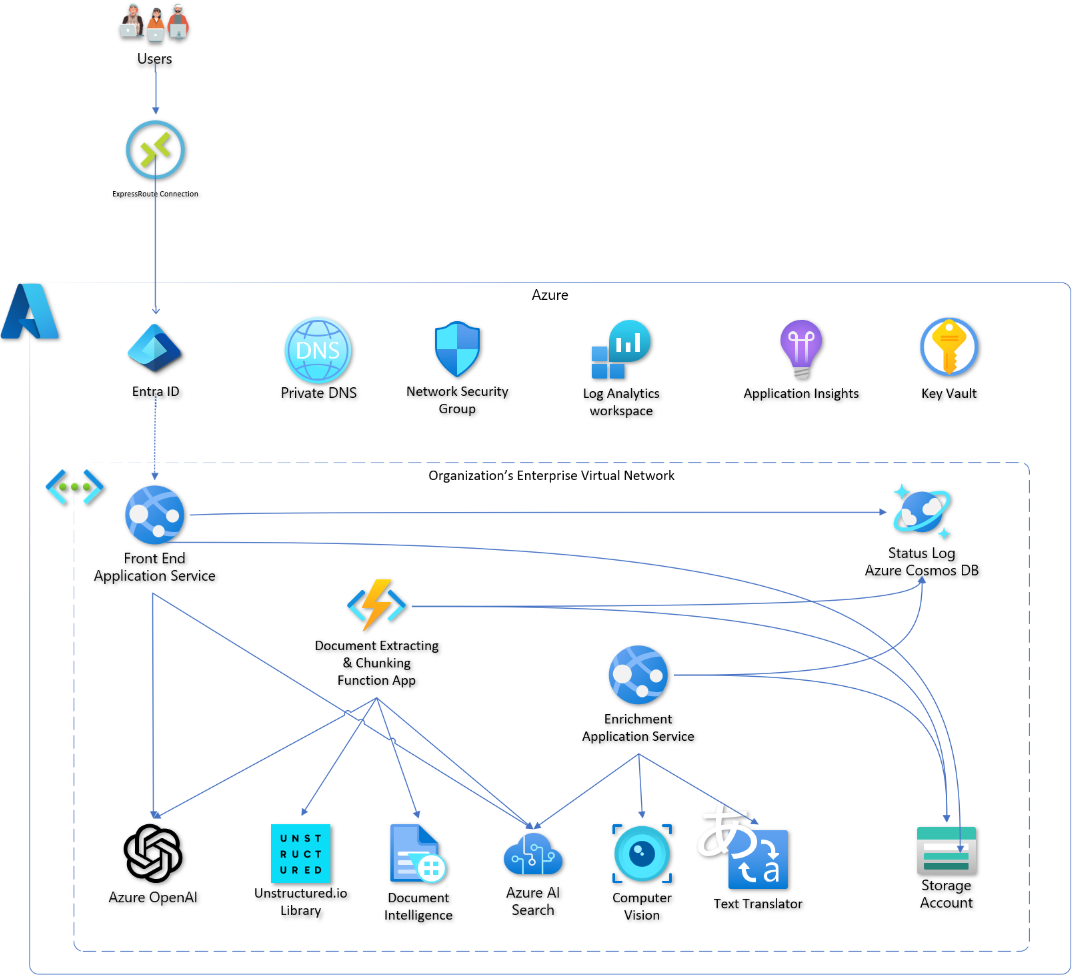
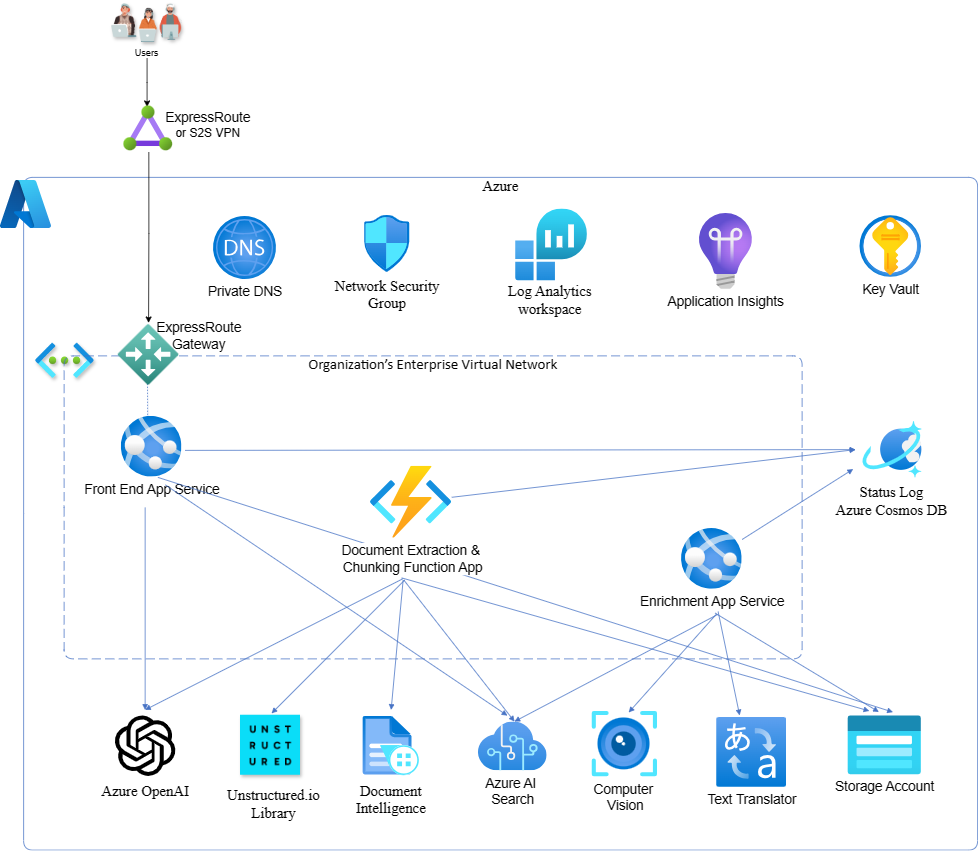
refresh secure deploy docs & images

diff --git a/docs/deployment/enable_secure_deployment.md b/docs/deployment/enable_secure_deployment.md
@@ -7,8 +7,10 @@
 >
 >Notes: 
 >
->* Secure mode is not supported when using existing Azure OpenAI Services.
->* Secure mode is not supported with enable web chat.
+>* Secure mode is not supported with use existing Azure OpenAI Services.
+>* Secure mode is not supported when you enable web chat.
+>* Secure mode is not supported when you enable sharepoint connector.
+>* Secure mode is not supported when you enable multimedia.
 >* Secure mode will create a DDOS Protection Plan for Virtual Network Protection. There is a limit of 1 DDOS protection plan for a subscription in a region.
 >* As part of security hardening Diagnostic Settings will be enabled. There is a limit of 5 diagnostic settings per subscription.
 >* A secure mode will check capacity for DDOS and Diagnostic Settings.
@@ -35,15 +37,31 @@ The secure mode adds several new Azure resources and will likely require additio
 
 ## Architecture
 
+Secure mode builds on the Single Virtual Network Pattern in which all components of your workload are inside a single virtual network (VNet). This pattern is possible if you're operating in a single region. A virtual network can't span multiple regions. The virtual network isolates your resources and traffic from other VNets and provides a boundary for applying security policies. Services deployed within the same virtual network communicate securely. This additional level of isolation helps prevent unauthorized external access to services and helps protect your data. 
+
 High level architecture diagram:
 
 ![Secure mode - High level architecture](../images/secure-deploy-high-level-architecture.png)
 
-A more detailed architecture diagram shows the Information Assistant deployment in a single resource group within a subscription in your tenant and illustrates user interaction with underlying services:
+Deploying a dedicated Azure service into your virtual network provides the following capabilities:
+
+* Resources within the virtual network can communicate with each other privately, through private IP addresses.
+* On-premises resources can access resources in a virtual network using private IP addresses over a Site-to-Site VPN (VPN Gateway) or ExpressRoute.
+* Virtual networks can be peered to enable resources in the virtual networks to communicate with each other, using private IP addresses.
+* The Azure service fully manages service instances in a virtual network. This management includes monitoring the health of the resources and scaling with load.
+* Private endpoints allow ingress of traffic from your virtual network to an Azure resource securely.
+
+The detailed architecture diagram below shows the VNet is subdivided into subnets that further segment network resources, allowing more granular control of network traffic and security fules. These subnets contain Private Endpoints, network interfaces that connect privately and securely to Azure Services. By using a Private IP address from your VNet, a Private Endpoint brings the service into your VNet, reducing exposure to the public internet. This improves network security through:
+
+1. Network isolation: VNets and Subnets provide a segregated environment where only authorized resources can communicate with each other.
+2. Reduced Attack Surface: Private Endp;oints ensure that Azure services are accessed via the private IP space of you VNet, not over the public internet, which significantly reduces the risk of external attacks.
+3. Granular Access Control: NEtowkr SEcurity Groups (NSGs) can be associated with subnets and network interfaces to filter network traffic to and from resources within a VNet. This allwos for fune-tuned control over access and security policies.
+
+The Information Assistant deploys to a resource group within a subscription in your tenant. The deployment requires a secure communication channel to complete successfully, as illustrated by the ExpreseRoute or S2S VPN for user access to the Virtual Network (vNet) on the left side of the diagram.
 
 ![Secure mode - Detailed Architecture](../images/secure-deploy-detailed-architecture.png)
 
-If your enterprise lacks a secure communication channel between your enterprise and the Azure cloud, consider setting up a Point-to-Site (P2S) Virtual Private Network (VPN). This will allow you to enable access to the Information Assistant for demonstration purposes. To implement this approach, you’ll need to add a VPN Gateway to the Information Assistant infrastructure.
+If your enterprise does not have an existing secure communication channel to the Azure cloud, consider setting up a Point-to-Site (P2S) Virtual Private Network (VPN) for demonstration purposes only. This will allow you to access the Information Assistant user experience (UX). To implement this for demonstration purposes, you’ll need to add a VPN Gateway to the Information Assistant infrastructure by creating a gateway subnet and a VPN Gateway then downloading a VPN client and connecting it to the VIP Gateway to access resources on the virtual network (vNet).
 
 More information on [using an Azure VPN Gateway Point-to-Site VPN](https://learn.microsoft.com/en-us/azure/vpn-gateway/work-remotely-support)
 
@@ -51,26 +69,25 @@ Detailed information on how to [create and manage a VPN Gateway is available at 
 
 After setting up a VPN Gateway, [configure the Azure VPN Client on your local machine](https://learn.microsoft.com/en-us/azure/vpn-gateway/openvpn-azure-ad-client)
 
-### Secure mode - Optional Features
-
-For more complex scenarios, explore [Azure Front Door](https://learn.microsoft.com/en-us/azure/frontdoor/). Keep in mind that while Azure Front Door is suitable for basic access to the Information Assistant website, it is not designed for managing deployments and updates to the accelerator.
 
 ## Front end
 
-When secure mode is enabled a private network is created called a virtual network. Services deployed within the same virtual network communicate securely. This additional level of isolation helps prevent unauthorized external access to services and helps protect your data. The diagram below shows an end user's interaction with Information Assistant and the subsequent front-end application's orchestration of the user's workflow. The front-end uses virtual network integration to connect to the private network and private DNS zones to connect to the appropriate services such as:
+ The user experience is provided by a front-end application deployed as an App Service and associated with an App Service Plan. When the front-end application needs to securely communicate with resources in the VNet, the outbound calls from the front-end application are enabled through VNet integration ensuring that traffic is sent over the private network where private DNS zones resolve names to private VNet IP addresses. The diagram below shows user's securely connecting to the VNet to interact with the Information Assistant user experience (UX)in the App Subnet.
+ 
+ The front-end application uses VNet integration to connect to the private network and private DNS zones to acceess the appropriate services such as:
 
 * __Azure Storage Account (Blob Storage)__: Used for file uploads.
 * __Azure OpenAI__: Enables prompt submissions.
 * __Azure AI Search__: Facilitates content discovery from uploaded files.
 * __Cosmos DB__: Provides visibility into the status of uploaded files.
 
-![Secure mode - Front End Architecture](../images/secure-deploy-frontend-detail.png)
+![Secure mode - Front End Architecture](../images/secure-deploy-frontend-architecture.png)
 
 ## Back end
 
-Back-end processing handles uploading your private data, document extraction and enrichment leveraging AI Services as illustrated in the following diagram:
+Back-end processing handles uploading your private data, performs document extraction and enrichment leveraging AI Services as illustrated in the following diagram:
 
-![Secure mode - Function Architecture](../images/secure-deploy-function-detail.png)
+![Secure mode - Function Architecture](../images/secure-deploy-function-architecture.png)
 
 ## How to Enable a Secure Deployment
 
@@ -84,13 +101,15 @@ To enable a Secure Deployment, update your local.env file as described below:
    export SECURE_MODE=true
    export ENABLE_WEB_CHAT=false
    export USE_EXISTING_AOAI=false
+   export ENABLE_SHAREPOINT_CONNECTOR=false
+   export ENABLE_MULTIMEDIA=false
    ```
 
-   *Note: Secure mode is blocked when enabling the web chat feature or when using an existing Azure OpenAI service. We have blocked this scenario to prevent a deployment from restricting access to a shared instance of Azure OpenAI that may be in use by other workloads*
+   *Note: Secure mode is blocked when using an existing Azure OpenAI service. We have blocked this scenario to prevent a deployment from restricting access to a shared instance of Azure OpenAI that may be in use by other workloads*
 
 ## Additional Considerations for Secure Deployment
 
-The secure mode defines a virtual network and multiple subnets, one for each service improving network isolation and data protection. Internet Protocol (IP) addresses and the corresponding Classess Inter-Domain Routing (CIDR)s are made available as Terraform parameters. Update the virtual network IP Addresses or CIDRs to avoid conflicts with your existing network(s), then copy this block of variables into your `scripts/environments/local.env` file (*values shown are default values*)
+Secure mode creates a virtual network and multiple subnets, improving network isolation and data protection. Internet Protocol (IP) addresses and the corresponding Classess Inter-Domain Routing (CIDR)s are available as Terraform parameters. To avoid any IP address conflicts with your existing network(s), update the virtual network IP Addresses or CIDRs, then copy this block of variables into your `scripts/environments/local.env` file (*values shown are default values*)
 
 ```bash
 export TF_VAR_virtual_network_CIDR="10.0.0.0/21"
@@ -110,3 +129,13 @@ export TF_VAR_azure_video_indexer_CIDR="10.0.5.128/26"
 export TF_VAR_bing_service_CIDR="10.0.6.0/26"
 export TF_VAR_azure_openAI_CIDR="10.0.6.128/26"
 ```
+
+The network architecture diagram below contains additional details on Private Endpoints and Private Links. A Private Link provides access to services over the Private Endpoint network interface. Private Endpoint uses a private IP address from your virtual network. You can access various services over that private IP address such as:
+
+*	Azure PaaS services like Azure OpenAI and Azure AI Search
+*	Customer-owned services that Azure hosts
+*	Partner services that Azure hosts
+
+Traffic between your virtual network and the service that you're accessing travels across the Azure network backbone. As a result, you no longer access the service over a public endpoint, effectively reducing exposure and enhancing security.
+
+![Secure mode - Network Architecture](../images/secure-deploy-network-architecture.png)
